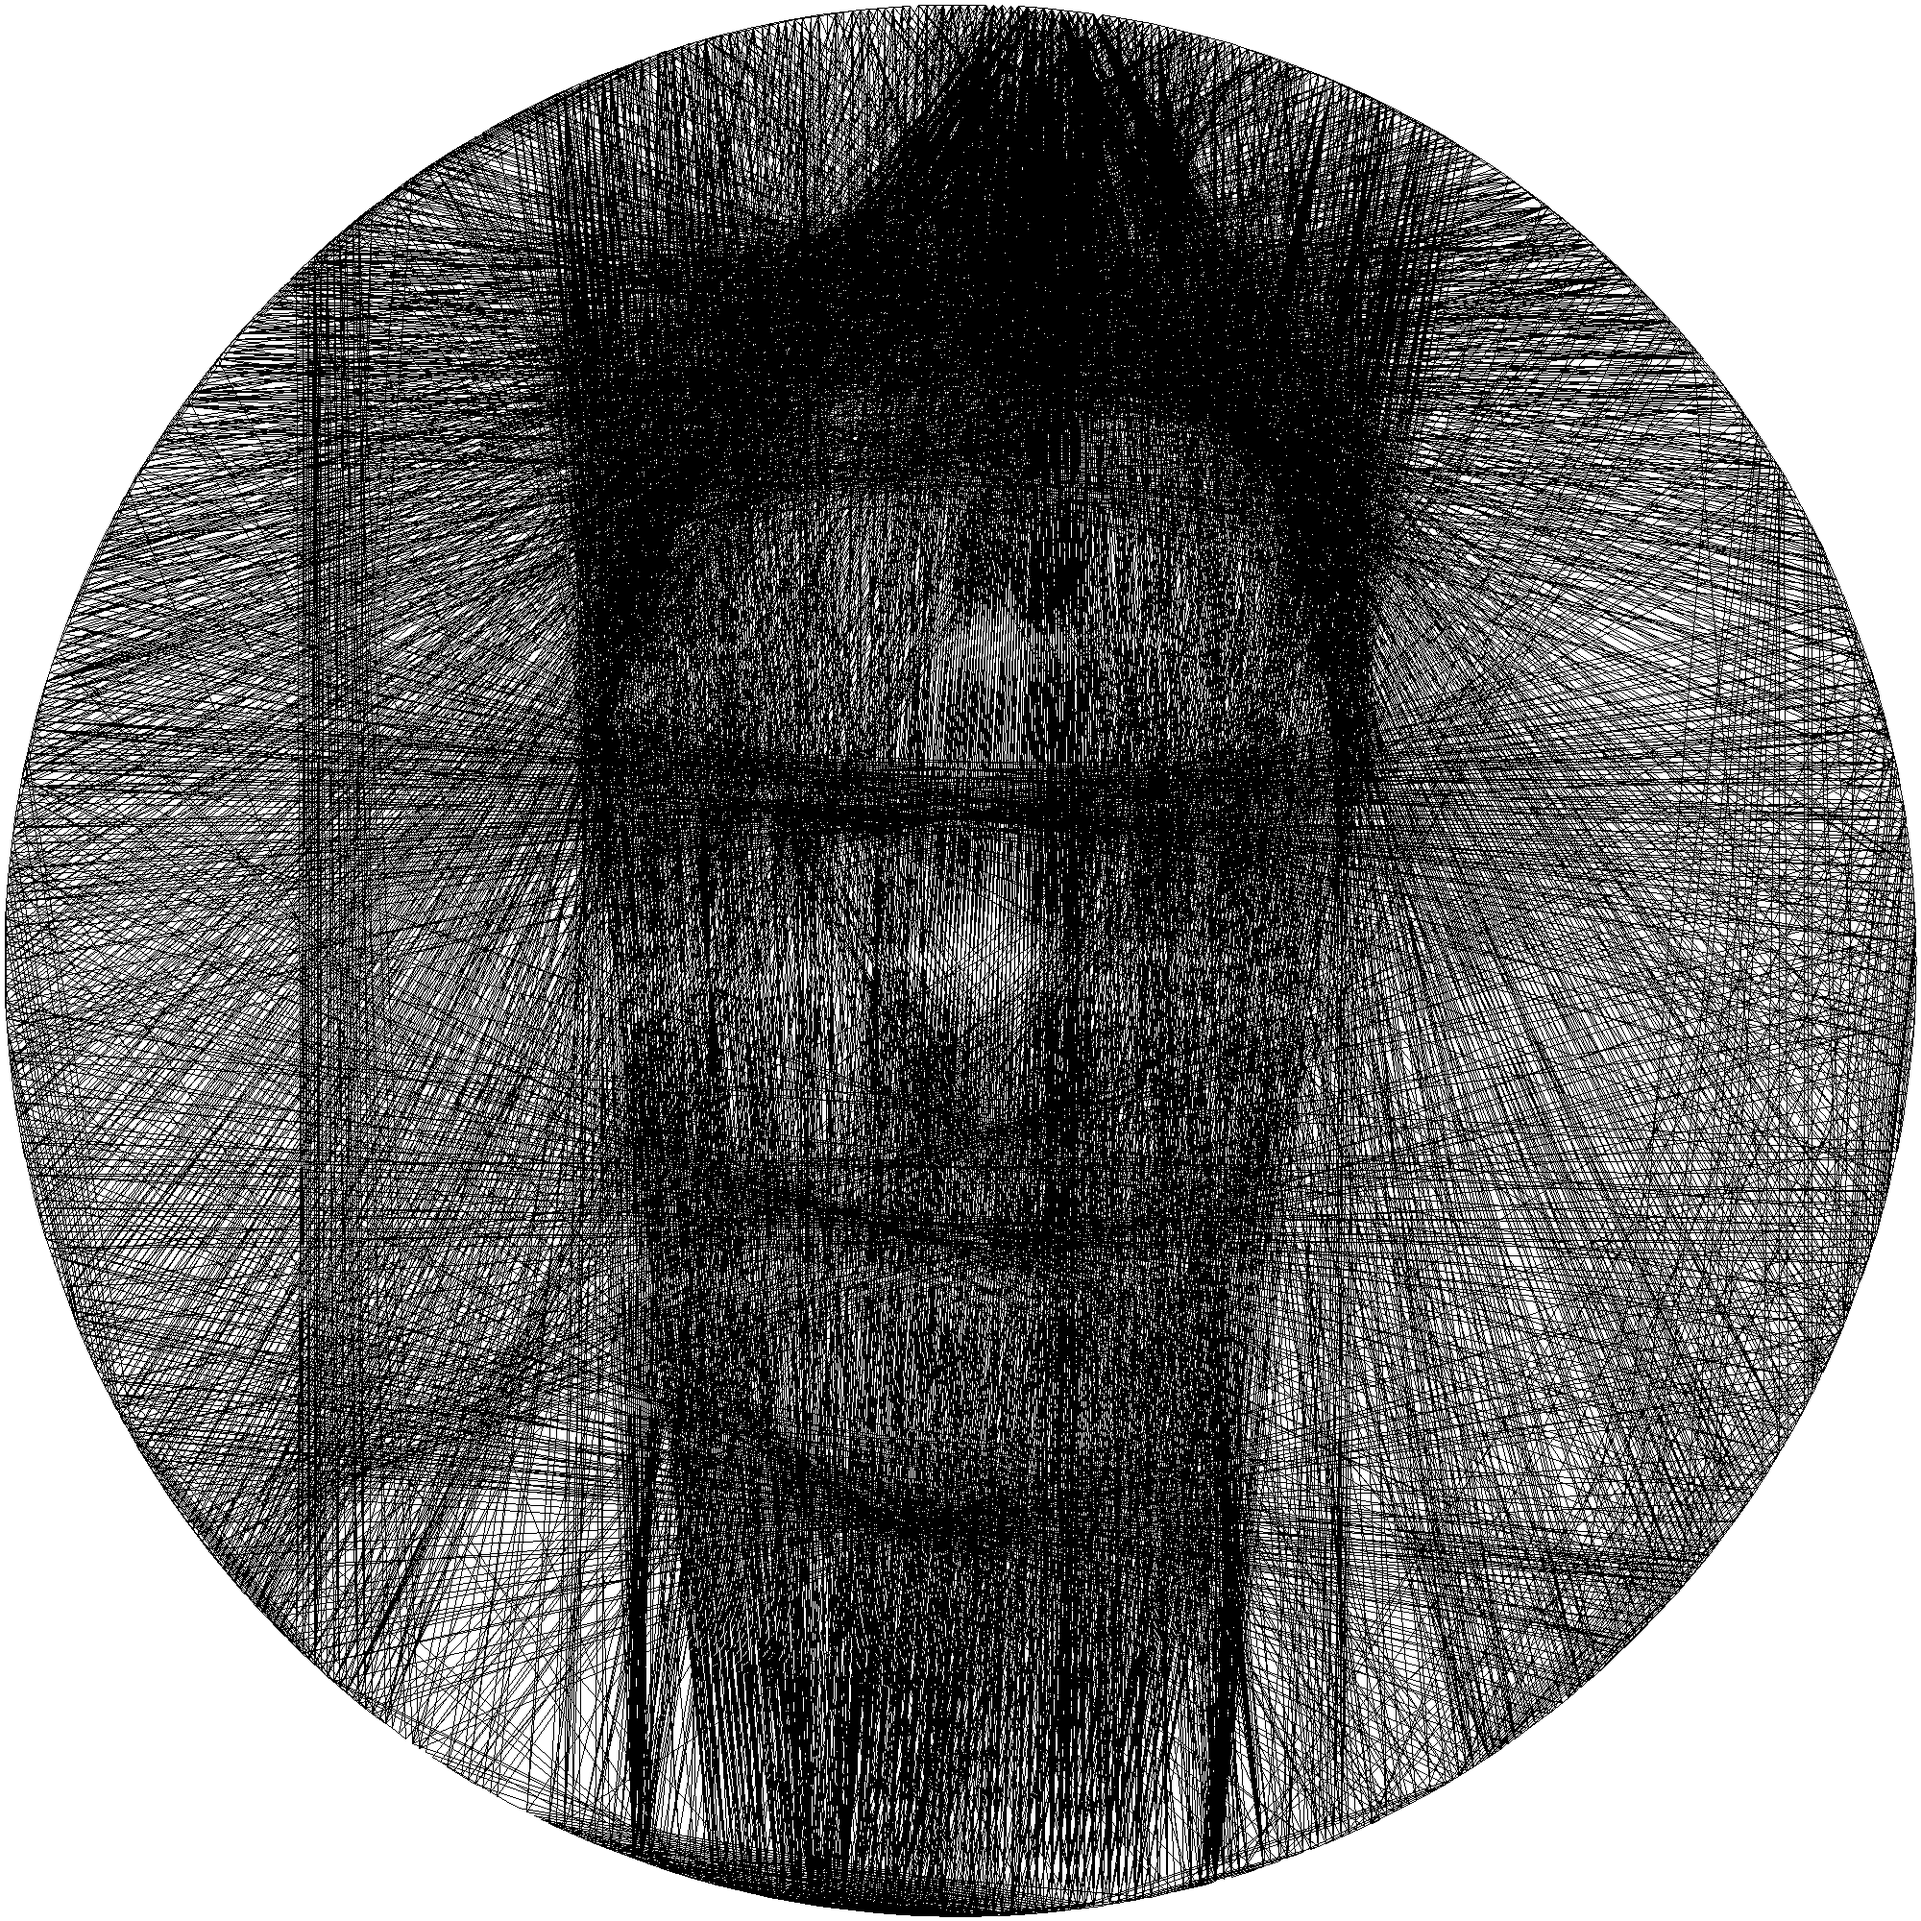
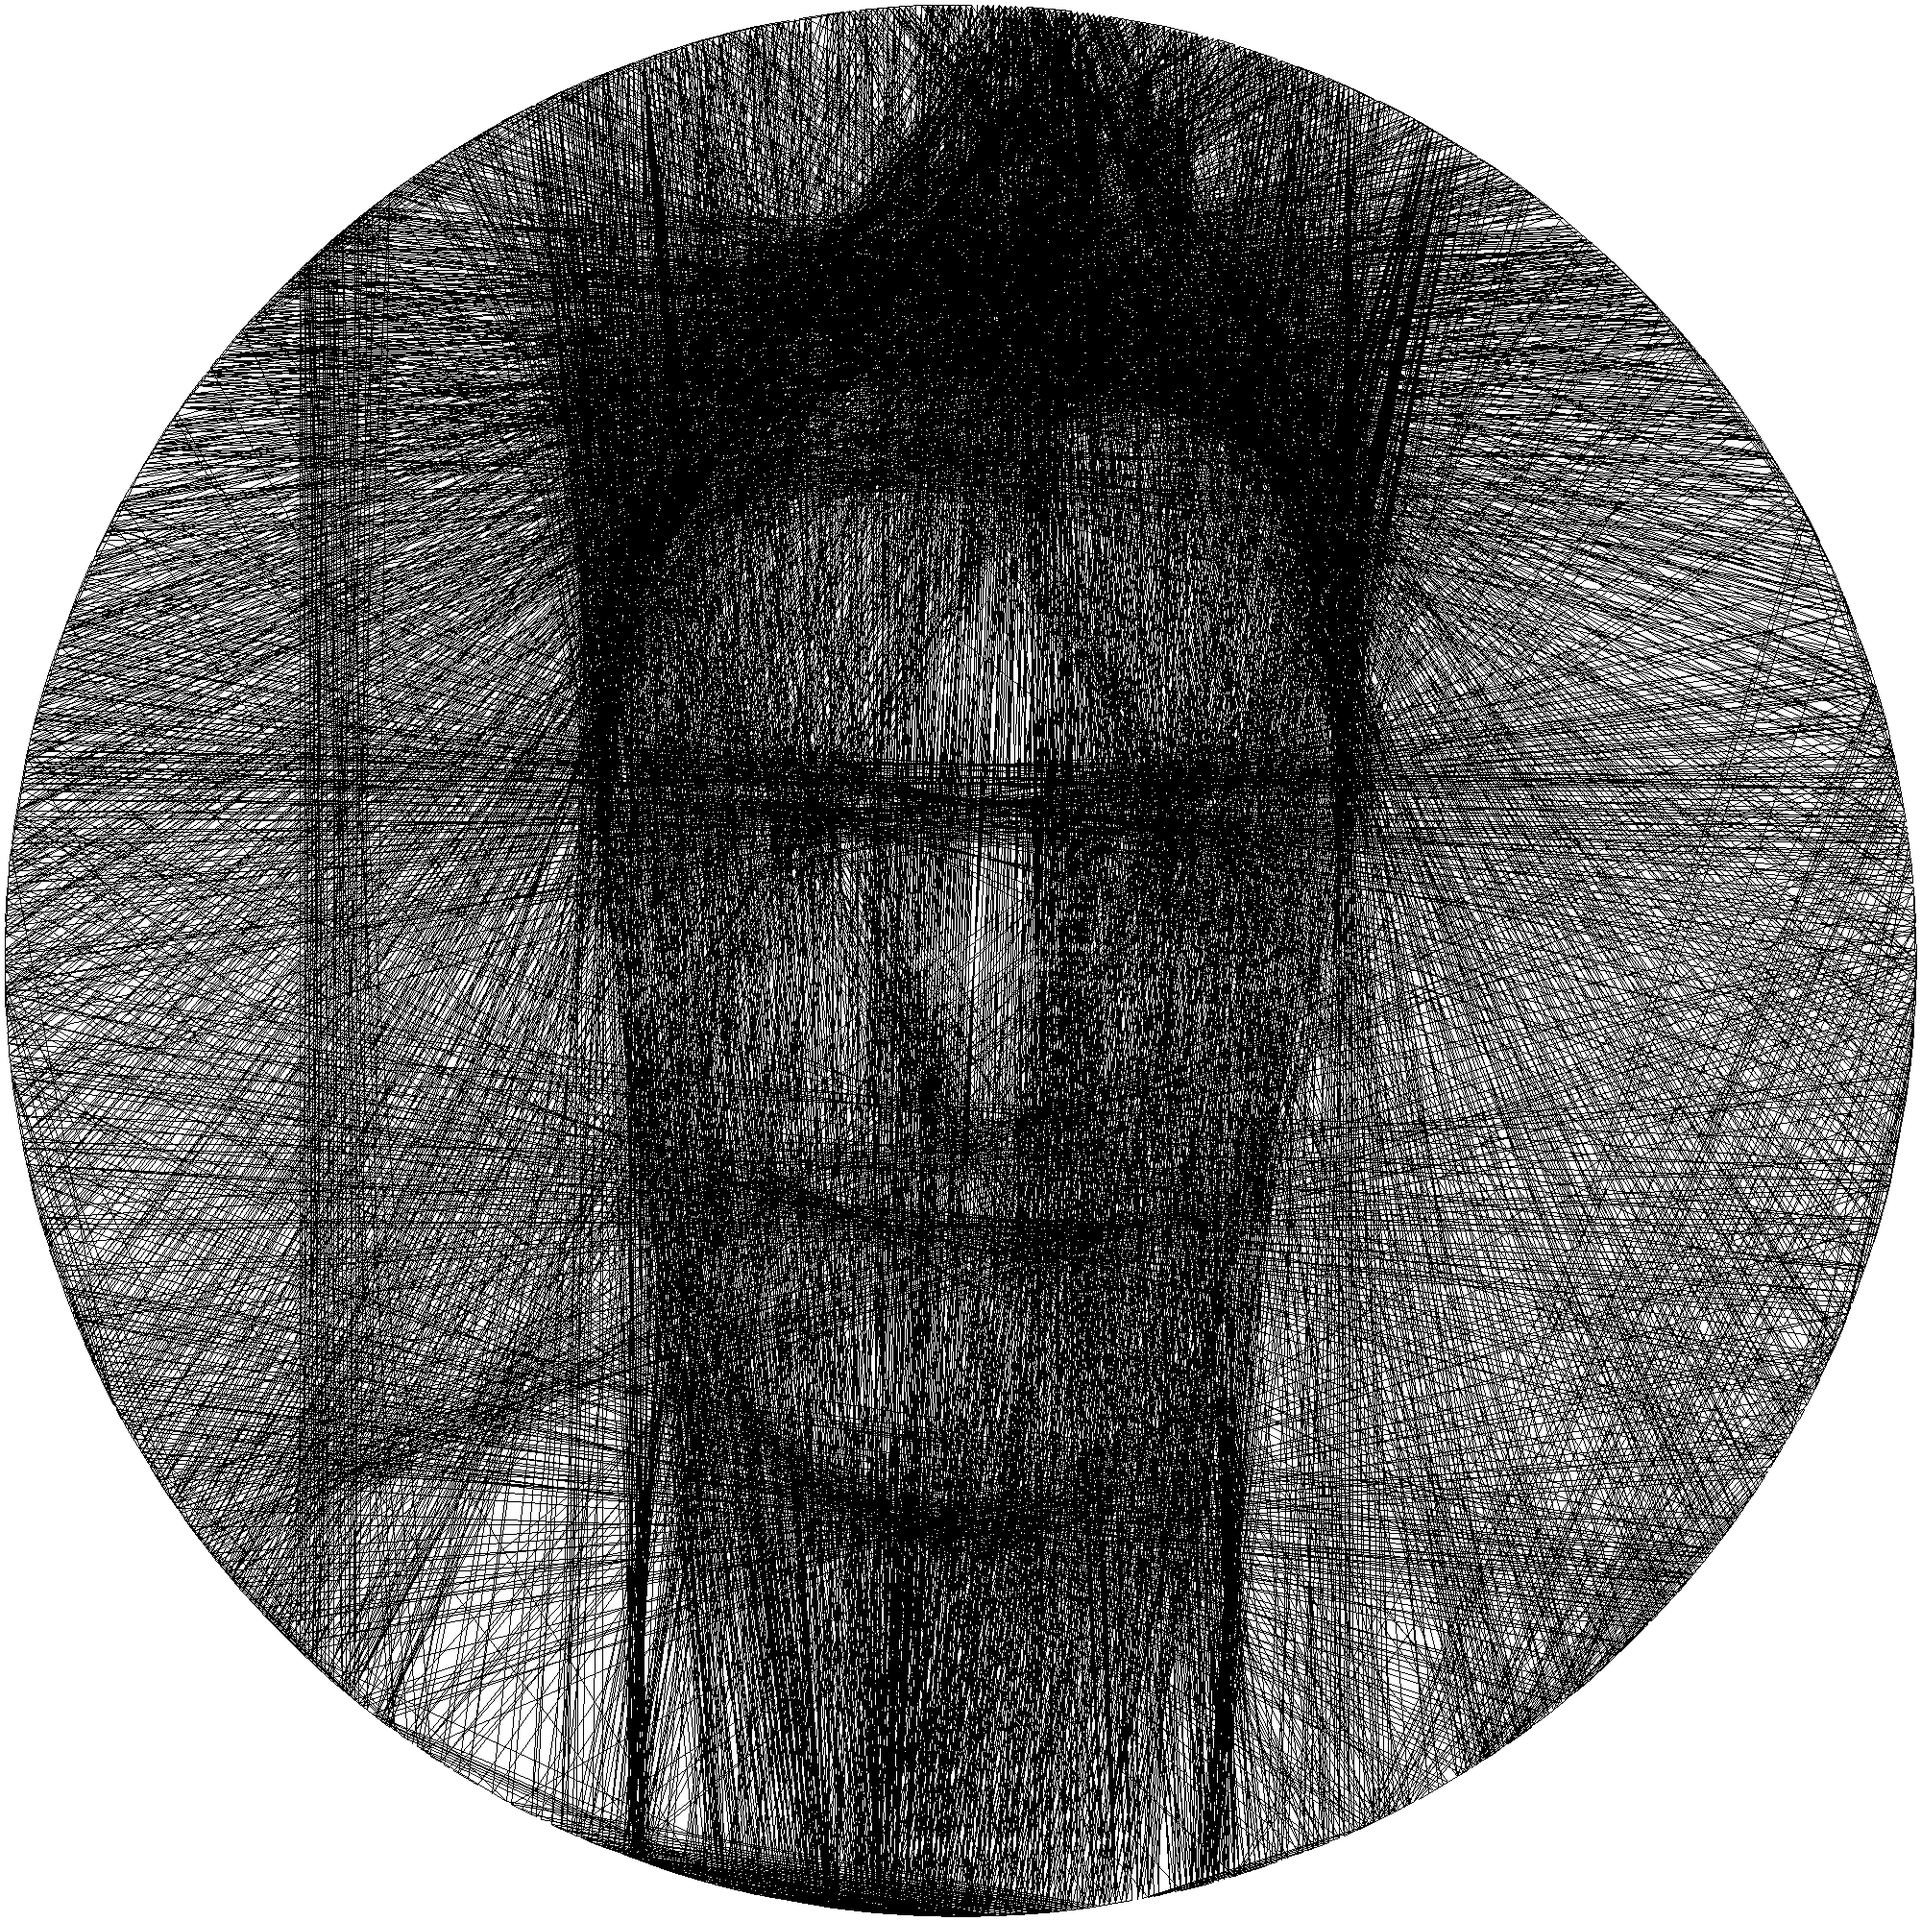
chore: pre-rust impl

Changed region(s): [[0.0, 0.0, 1.0, 1.0]]

diff --git a/main.py b/main.py
@@ -21,7 +21,7 @@ if __name__ == '__main__':
 
         # Example 1: Regular GreedyGenerator (draws facial features)
         print("=== Creating Regular String Art (facial features) ===")
-        generator = GreedyGenerator(image_path='portrait.jpg', num_nails=720, image_size=2000, extract_subject=True, remove_shadows=True)
+        generator = GreedyGenerator(image_path='portrait.jpg', num_nails=360*3, image_size=2000, extract_subject=True, remove_shadows=True)
 
         # 2. Generate the path (the sequence of nails)
         # More lines = more detail, but longer processing time

diff --git a/memory_bank/index.md b/memory_bank/index.md
@@ -1,0 +1,14 @@
+# Purpose
+
+We are creating a moving string artwork. The idea is that we have a circular board with pins on the outside. It will be completely automated so that it ties the string between the pins. 
+
+# Mechanism
+We are using the greedy algorithm to find the best path for the strings. Eventually the strings will resemble an image over time the more we tie. 
+
+The canvas will be a white background with moveable pins on the outside. There will be 720 pins (2 per degree of motion) and there will be a motor that spins the canvas. 
+
+Where the motor is, there will be a mechanism that pushes a select pin out and wraps the string around it. This will be how the artwork "paints" itself.
+
+When it is complete there will be another mechanism to spin the pins so that they release their strings. 
+
+The pins are basically long cylinders with a groove on the one side. When the pin is spun the string looses the groove and can come free.
